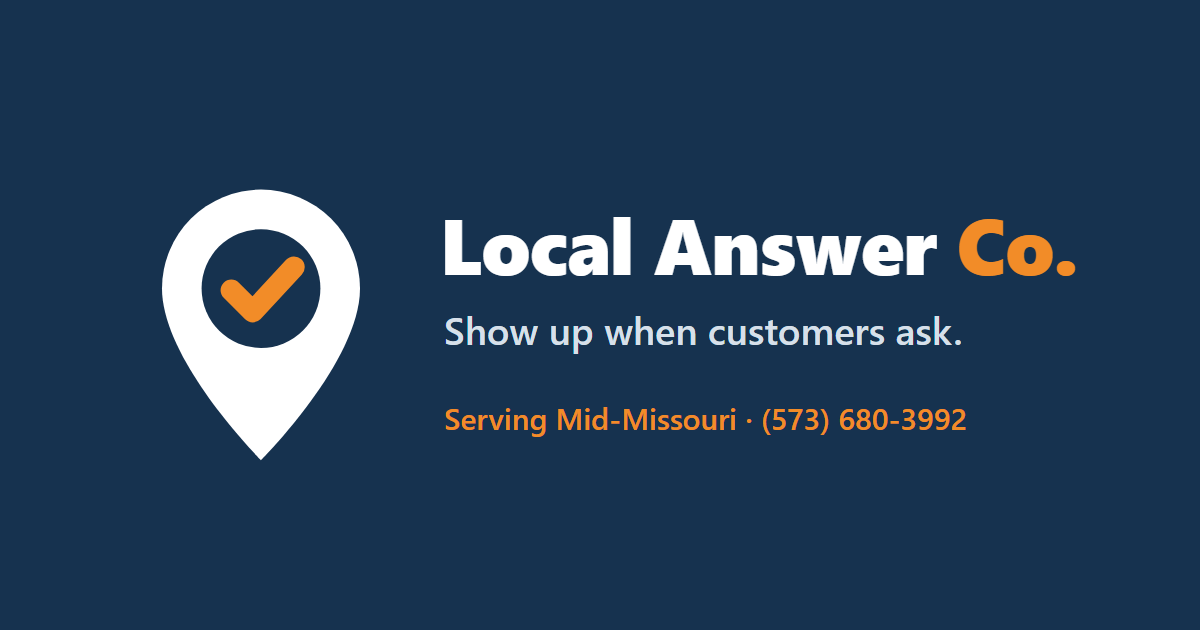
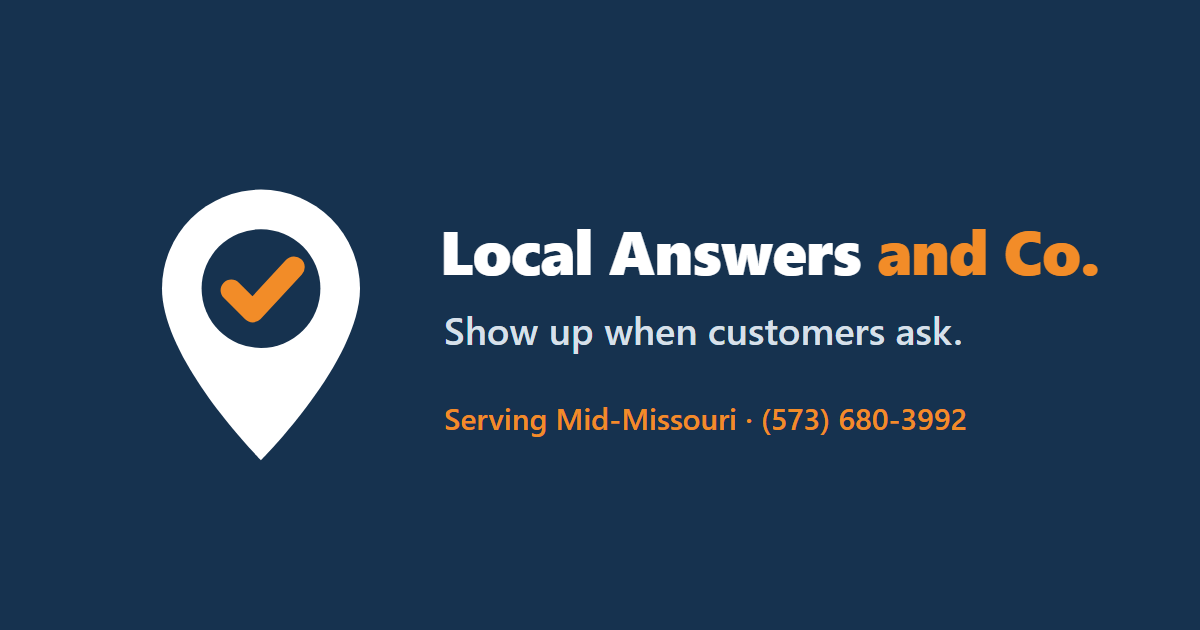
Rename to Local Answers and Co.
New company name everywhere on the site: title, header, text, share image,
and the business code. The web address stays the same.

Changed region(s): [[0.37, 0.3317, 0.925, 0.4524]]

diff --git a/index.html b/index.html
@@ -3,13 +3,13 @@
 <head>
 <meta charset="utf-8">
 <meta name="viewport" content="width=device-width, initial-scale=1">
-<title>Local Answer Co. | Show up when customers ask | Mid-Missouri</title>
+<title>Local Answers and Co. | Show up when customers ask | Mid-Missouri</title>
 <meta name="description" content="When people in Jefferson City, Columbia, Fulton or Lake of the Ozarks ask Google or an AI tool where to go or who to call, does your business come up? We check, fix what those tools read, and show you the proof every month.">
 <link rel="canonical" href="https://zachhagner17-lang.github.io/local-answer-co/">
 <meta name="google-site-verification" content="4-YyD4_K6DcytgmcSc9QipYHkgwXpnFy9gQL7e5Ot0k" />
 <meta property="og:type" content="website">
-<meta property="og:site_name" content="Local Answer Co.">
-<meta property="og:title" content="Local Answer Co. | Show up when customers ask">
+<meta property="og:site_name" content="Local Answers and Co.">
+<meta property="og:title" content="Local Answers and Co. | Show up when customers ask">
 <meta property="og:description" content="When people in Mid-Missouri ask Google or an AI tool where to go or who to call, does your business come up? Free check for local businesses.">
 <meta property="og:url" content="https://zachhagner17-lang.github.io/local-answer-co/">
 <meta property="og:image" content="https://zachhagner17-lang.github.io/local-answer-co/og-image.png">
@@ -22,7 +22,7 @@
 {
   "@context": "https://schema.org",
   "@type": "ProfessionalService",
-  "name": "Local Answer Co.",
+  "name": "Local Answers and Co.",
   "telephone": "+1-573-680-3992",
   "address": {
     "@type": "PostalAddress",
@@ -156,13 +156,13 @@
 
 <header>
   <div class="bar wrap">
-    <a class="brand" href="#top" aria-label="Local Answer Co. home">
+    <a class="brand" href="#top" aria-label="Local Answers and Co. home">
       <svg viewBox="0 0 100 100" aria-hidden="true">
         <path d="M50 94 C50 94 20 64 20 42 A30 30 0 1 1 80 42 C80 64 50 94 50 94 Z" fill="#16324F"/>
         <circle cx="50" cy="42" r="18" fill="#FFFFFF"/>
         <path d="M41 42.5 L47.5 49 L60 35.5" fill="none" stroke="#F28C28" stroke-width="6.5" stroke-linecap="round" stroke-linejoin="round"/>
       </svg>
-      <span>Local Answer <b>Co.</b></span>
+      <span>Local&nbsp;Answers <b>and&nbsp;Co.</b></span>
     </a>
     <a class="call" href="tel:+15736803992">(573) 680-3992</a>
   </div>
@@ -237,7 +237,7 @@
         <li>Dentists and clinics</li><li>Lawyers and accountants</li><li>Real estate agents</li>
         <li>Auto shops</li><li>Shops and boutiques</li><li>Gyms and studios</li>
       </ul>
-      <p>Local Answer Co. is run by Zach, a Jefferson City contractor. We run every step on our own business first, so we know what it takes.</p>
+      <p>Local Answers and Co. is run by Zach, a Jefferson City contractor. We run every step on our own business first, so we know what it takes.</p>
     </div>
   </section>
 
@@ -251,7 +251,7 @@
 </main>
 
 <footer>
-  <div class="wrap">© 2026 Local Answer Co. · Based in Jefferson City, serving Columbia, Fulton, Lake of the Ozarks and all of Mid-Missouri</div>
+  <div class="wrap">© 2026 Local Answers and Co. · Based in Jefferson City, serving Columbia, Fulton, Lake of the Ozarks and all of Mid-Missouri</div>
 </footer>
 
 </body>
